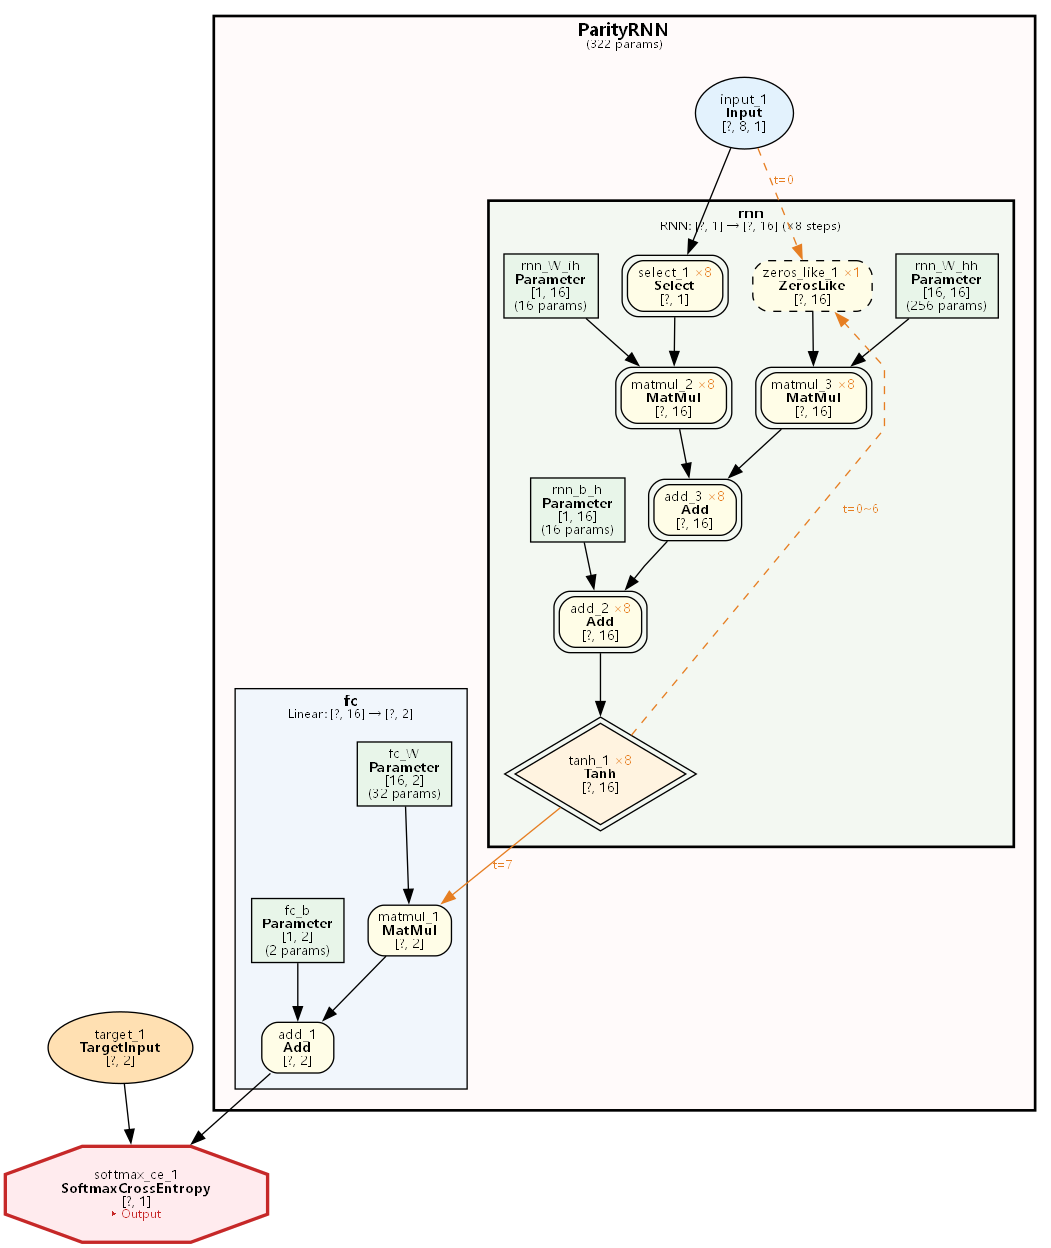
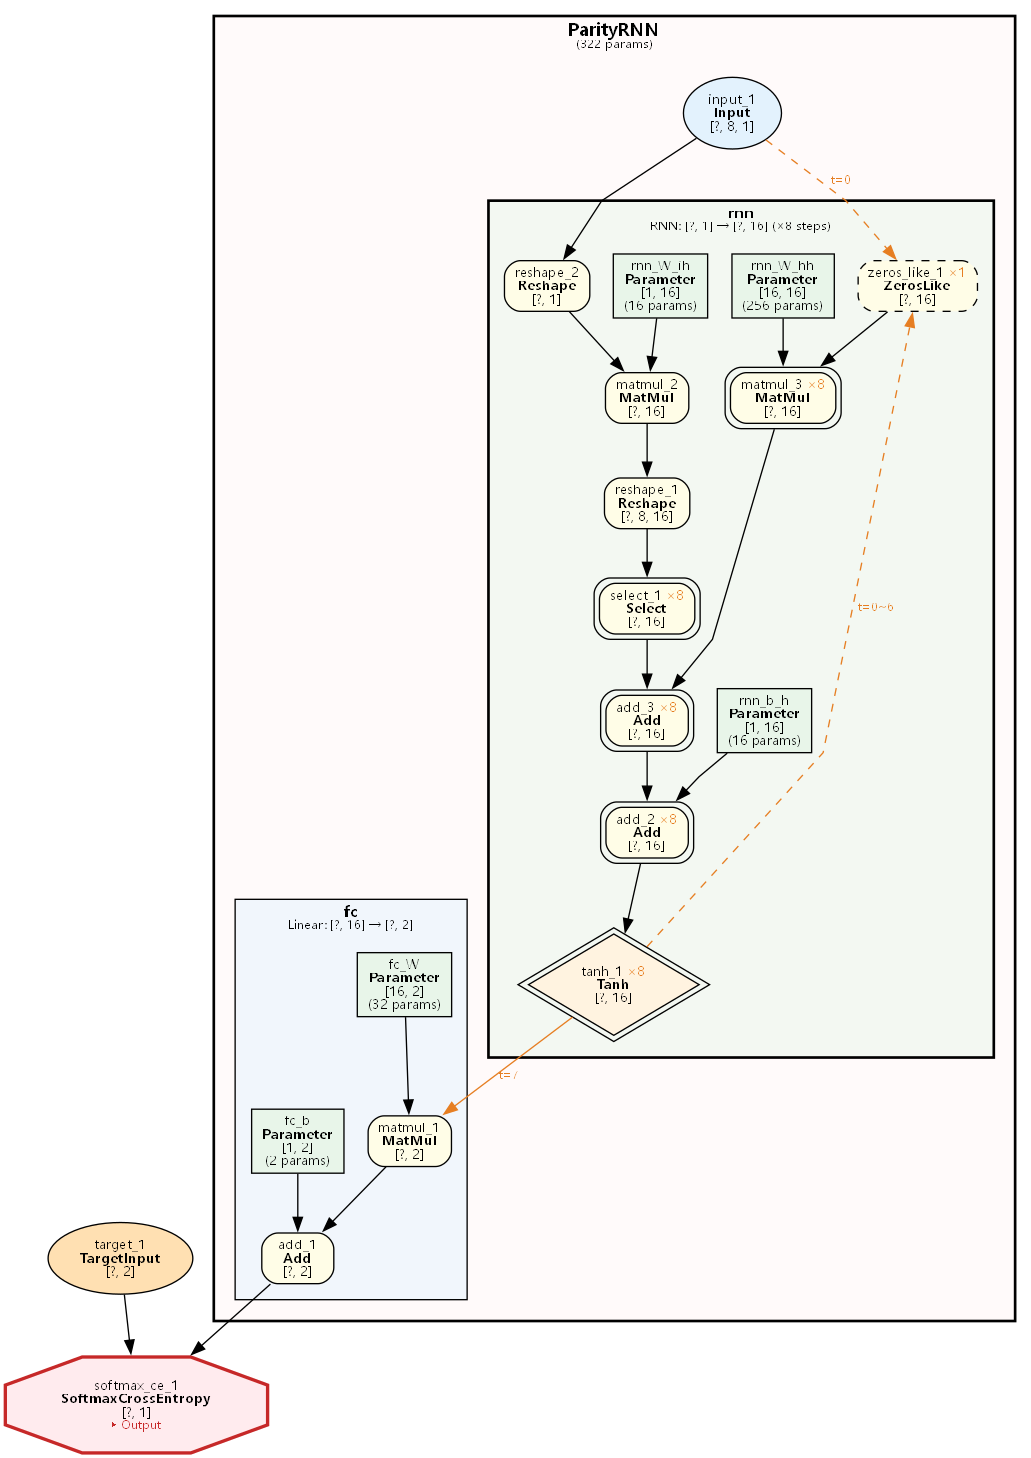
perf(nn): RNN 输入投影批量化——逐时间步小 GEMM 合并为单次大 GEMM（forward -22%，优化 R）
LSTM/GRU 同款改造实测负收益（多路门权重无节点数收益）已回滚，负结果与归因落档战报 R；
候选表同步 IxDyn 否决条目论据修正（数值风险论据证伪，改按收益≈0 维持否决）；
parity_transformer_var_len 存量 flaky（68.5% vs 70% 门槛）记 issue。

Changed region(s): [[0.0, 0.0, 0.9932, 1.0], [0.807, 0.4062, 0.838, 0.4375]]

diff --git a/src/nn/layer/rnn.rs b/src/nn/layer/rnn.rs
@@ -98,10 +98,11 @@ impl Rnn {
         let b_h = graph.parameter(&[1, hidden_size], Init::Zeros, &format!("{full_name}_b_h"))?;
 
         // 注册折叠渲染元信息（仅保留折叠所需的最小信息）
-        // RNN 每个时间步的节点数：6 (select, matmul_xw, matmul_hw, add1, add2, tanh)
+        // RNN 每个时间步的节点数：5 (select_xw, matmul_hw, add1, add2, tanh)
+        // （输入投影 x @ W_ih 已批量化提出循环，见 unroll）
         graph
             .inner_mut()
-            .register_recurrent_folding_meta(&full_name, 6);
+            .register_recurrent_folding_meta(&full_name, 5);
 
         let instance_id = graph.inner_mut().next_node_group_instance_id();
 
@@ -195,6 +196,18 @@ impl Rnn {
         let init_state_node_ids = vec![h0.node_id()];
         let mut h = h0;
 
+        // 输入投影批量化：x_t @ W_ih 不依赖递归，把 seq_len 个小 GEMM 合并为
+        // 一次大 GEMM（[N, T, in] → [N*T, in] @ W_ih → [N, T, H]），
+        // 循环内每步只需 select 取已投影的行。
+        let batch_size = x
+            .value()?
+            .ok_or_else(|| GraphError::ComputationError("Rnn.unroll 需要输入有值".to_string()))?
+            .shape()[0];
+        let xw_seq = x
+            .reshape(&[batch_size * seq_len, self.input_size])?
+            .matmul(&self.w_ih)?
+            .reshape(&[batch_size, seq_len, self.hidden_size])?;
+
         // 记录第一个时间步的信息（用于折叠渲染）
         let mut first_step_start_id = None;
         let mut repr_output_node_ids = Vec::new();
@@ -213,16 +226,15 @@ impl Rnn {
                 _guard.set_hidden(true);
             }
 
-            // 选择第 t 个时间步: x_t = x[:, t, :] -> [batch, input_size]
-            let x_t = x.select(1, t)?;
+            // 选择第 t 个时间步的已投影输入: xw = (x @ W_ih)[:, t, :] -> [batch, hidden_size]
+            let xw = xw_seq.select(1, t)?;
 
             // 记录第一个时间步的起始节点 ID
             if t == 0 {
-                first_step_start_id = Some(x_t.node_id());
+                first_step_start_id = Some(xw.node_id());
             }
 
-            // h_new = tanh(x_t @ W_ih + h @ W_hh + b_h)
-            let xw = x_t.matmul(&self.w_ih)?;
+            // h_new = tanh(xw + h @ W_hh + b_h)
             let hw = h.matmul(&self.w_hh)?;
             let sum1 = &xw + &hw;
             let sum2 = &sum1 + &self.b_h;
@@ -303,7 +315,7 @@ impl Rnn {
     ) -> Self {
         let graph = w_ih.get_graph();
         let name = "rnn_rebuilt".to_string();
-        graph.inner_mut().register_recurrent_folding_meta(&name, 6);
+        graph.inner_mut().register_recurrent_folding_meta(&name, 5);
         let instance_id = graph.inner_mut().next_node_group_instance_id();
         Self {
             w_ih,

diff --git a/.doc/performance/optimization_log.md b/.doc/performance/optimization_log.md
@@ -7,6 +7,44 @@
 
 ---
 
+## R. RNN 输入投影批量化（2026-07-04）+ LSTM/GRU 同款负结果回滚
+
+**来源**：batched_mat_mul 全局适用性排查（C1 后续）——层内逐 batch/逐 head 循环
+已无遗漏 bmm 场景，唯一相邻候选是 RNN 系「输入投影不依赖递归」：`x_t @ W_ih`
+每时间步一个小 GEMM，可整段合并为一次大 GEMM（权重共享场景用 2D reshape 技巧，
+**不是** bmm 适用场景）。
+
+**改动**（`src/nn/layer/rnn.rs`）：unroll 前置
+`x.reshape([N*T, in]).matmul(W_ih).reshape([N, T, H])`，循环内 `select` 取已投影行；
+每步节点 6 → 5（seq_len=16 时 96 → 83 节点），T 个 `[N,in]@[in,H]` 小 GEMM
+→ 1 个 `[N*T,in]@[in,H]` 大 GEMM。折叠可视化 `nodes_per_step` 同步 6→5。
+
+**实测**（`cargo bench --bench rnn` vs `pre_rnn_proj`，b16_t16_i16_h32）：
+
+| case | 变化 |
+|---|---|
+| rnn_forward | **-22%**（288µs → 222µs） |
+| rnn_backward | 噪声带（+3%，p=0.37） |
+| lstm_forward（已回滚） | **+8% 回归** |
+| lstm_backward（已回滚） | **+20% 回归** |
+| gru forward/backward（已回滚） | 噪声带 |
+
+**LSTM/GRU 负结果与回滚归因**：RNN 只有 1 路输入投影，省 T-1 个 MatMul 节点、
+新增 3 个 reshape/matmul 节点，净赚；LSTM/GRU 是 4/3 路独立权重投影，每步
+matmul→select 只是节点等量替换（省不掉节点数），却新增 4/3 组
+reshape+matmul+reshape 前置节点 + select 反向的 pad 梯度路径，图执行开销
+（借用/调度/小分配）吃掉 GEMM 合并收益。**教训**：GEMM 合并收益的前提是
+「省节点数」，多路权重不合并（`[in, 4H]` 单矩阵布局）就没有省节点空间——
+而权重合并是参数结构破坏性变更（ONNX/演化/序列化连带），不值得为微秒级收益做。
+
+**验证**：全量 lib 测试 3352 全绿；clippy `-D warnings` 零告警；memory-unit
+示例全跑：parity RNN 定长/变长（97.4% / 100%，epoch 数与历史量级一致）、
+LSTM 91.5%、GRU 100%、演化 seq/var-len/attention 三例均达标；
+`parity_transformer_var_len` 68.5% 未达 70% 门槛为**存量 flaky**（干净 master
+复现同值，与本批改动无关，transformer 未动）。
+
+---
+
 ## Q. Rayon 治理批：dK 确定性修复 + 小任务阈值分流 + 分配画像工具 + Vec\<Vec\> 清尾 + 演化索引 shuffle（2026-07-04）
 
 **来源**：热路径审计两个遗留方向（分配画像先行 / Rayon 小任务反噬）+ Reviewer 二轮压测

diff --git a/CHANGELOG.md b/CHANGELOG.md
@@ -4,6 +4,14 @@
 
 ### Changed
 
+- **perf(nn): RNN 输入投影批量化——逐时间步小 GEMM 合并为单次大 GEMM（forward -22%，优化 R）**（2026-07-04）
+  - 背景：batched_mat_mul 全局适用性排查（C1 后续）确认层内已无遗漏 bmm 场景；唯一相邻候选 = RNN 系「输入投影不依赖递归」，用 2D reshape 技巧（权重共享场景，非 bmm）出表候选 #2 一项
+  - `Rnn::unroll` 前置 `x.reshape([N*T, in]) @ W_ih → [N, T, H]`，循环内 `select` 取已投影行；每步节点 6 → 5（seq_len=16 时全图 96 → 83 节点），T 个小 GEMM → 1 个大 GEMM；折叠可视化 `nodes_per_step` 同步
+  - 实测（`benches/rnn.rs` vs `pre_rnn_proj`）：rnn_forward **-22%**（288µs → 222µs），backward 噪声带
+  - **LSTM/GRU 同款负结果已回滚**：4/3 路独立门权重下 matmul→select 只是节点等量替换（无节点数收益），前置投影组反而净增开销（lstm forward +8% / backward +20%）；权重合并 `[in, 4H]` 布局是参数结构破坏性变更，不值得为微秒级收益做——归因落档[战报 R](.doc/performance/optimization_log.md)
+  - 候选表同步：IxDyn `dot` 否决条目论据复核修正（「BLAS 派发不等价」数值风险论据经 ndarray 0.17.2 源码证伪——IxDyn `dot` 即 Ix2 薄包装逐 bit 等价；改按「收益≈0 + 类型表达力损失」维持否决）
+  - 验证：全量 lib 测试 3352 全绿 + clippy 零告警；memory-unit 示例全跑达标（parity RNN 97.4%/100%、LSTM 91.5%、GRU 100%、演化 seq 三例均过）；`parity_transformer_var_len` 68.5% 未达 70% 门槛为存量 flaky（干净 master 复现同值，已记 issue）
+
 - **perf(nn/tensor/evolution): Rayon 治理批——dK 确定性修复 + 小任务阈值分流 + 分配画像工具 + Vec\<Vec\> 清尾 + 演化索引 shuffle（优化 Q）**（2026-07-04）
   - 背景：热路径审计两个遗留方向（分配画像 / Rayon 小任务反噬）经 Reviewer 二轮压测后收口；六项均为逐 bit 等价或确定性增强，不触碰 RL 数值冻结（conv 系不在 CartPole 哨兵路径）
   - **dK 可复现性修复（R1）**：conv2d / conv_transpose2d 的 dL/dK 由 rayon `reduce`（合并分组随工作窃取漂移 → 同输入两次运行可能不逐 bit 相同）改「并行 map 保序 collect + 按 batch 序串行累加」；CE 前向 par `sum()` 同病但在冻结路径（仅 loss 标量），留候选表解冻后修

diff --git a/.issue/items/parity_transformer_flaky_threshold.md b/.issue/items/parity_transformer_flaky_threshold.md
@@ -1,0 +1,41 @@
+---
+status: active
+created: 2026-07-04
+updated: 2026-07-04
+owners: []
+reviewers: []
+---
+
+# parity_transformer_var_len 示例：训练准确率贴门槛 flaky（68.5% vs 70%）
+
+> **状态**：active —— 存量问题，与任何近期改动无关（2026-07-04 在干净 master
+> `4ec2eb0` 上复现同值 68.5%）。非关键路径：该示例本就用于展示 transformer 在
+> parity 这类 counter 任务上的**固有限制**（O(1/n) sensitivity，见示例 README），
+> 70% 门槛只是「学到一点但学不好」的证据线。
+
+## 现象
+
+- `just example-parity-transformer-var-len`（debug 构建）以
+  `ComputationError("训练最佳准确率 68.5% 未达到目标 70%")` 退出码 1 失败。
+- 2026-07-04 两次运行（含 RNN 改动工作区 + stash 后干净 master）均为 **68.5%**，
+  数值稳定复现——更像「当前默认 seed/数值流下就是 68.5%」而非 run-to-run 抖动。
+- 该示例是 `just examples-memory-unit` 聚合关卡的一环，会让聚合命令整体报红。
+
+## 疑似诱因（未验证）
+
+- 示例上一次全绿验证在 ndarray 0.16/0.17 升级 + BLAS 轨迹漂移（见
+  `cartpole_sentinel_red_ndarray_drift.md`）之前；transformer 对初始化/数值流
+  敏感，漂移后贴线掉到门槛下方是合理假设。
+- 与 2026-07-04 RNN 输入投影批量化无关（transformer 路径未动，干净 master 复现）。
+
+## 候选处理方向（择一，待安静窗口）
+
+1. 换 seed / 微调超参（lr、epoch 数）让它回到门槛上方——最便宜。
+2. 门槛从 70% 降到 65%（与「固有限制」叙事一致，README 同步说明）。
+3. 若 ndarray 漂移复裁（哨兵 issue）后数值流再变，先复跑本例再决定。
+
+## 相关
+
+- 示例：`examples/traditional/parity_transformer_var_len/`
+- 聚合命令：`justfile` → `examples-memory-unit`
+- 关联 issue：`.issue/items/cartpole_sentinel_red_ndarray_drift.md`（数值流漂移背景）
